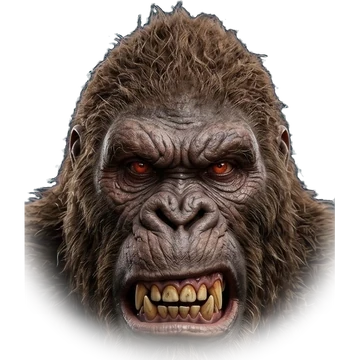
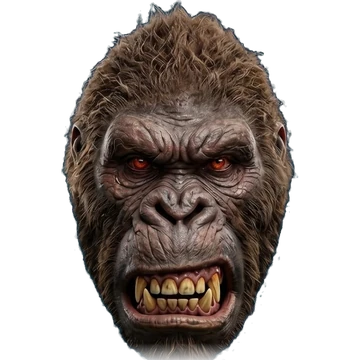
Cabezas de retrato sin hombros, masticar al comer y cuerpos en pixel art puro
- Retratos de George, Lizzie y Ralph recortados de la imagen de solo cabezas
- Al comer, la mandíbula sube y baja (retratos y fotos) mostrando el interior de la boca
- Cuerpos a menor resolución con píxeles grandes, bordes nítidos y paleta cerrada
- Cabezas un poco más grandes

Claude-Session: https://claude.ai/code/session_01WrKHBqVFUVzhRsw5zrp1Y6

diff --git a/js/art.js b/js/art.js
@@ -2,11 +2,11 @@
 // Dibujo de los monstruos (con la cara de la foto), humanos y procesado de caras.
 
 const MONSTERS = [
-  { id: 'kongo', name: 'KONGO', species: 'Gorila', type: 'ape', portrait: 'img/george.webp',
+  { id: 'kongo', name: 'KONGO', species: 'Gorila', type: 'ape', portrait: 'img/george.webp', mouth: 0.77,
     body: '#6e4a30', belly: '#8a6a58', dark: '#3e2818' },
-  { id: 'liza', name: 'LIZA', species: 'Lagarta', type: 'lizard', portrait: 'img/lizzie.webp',
+  { id: 'liza', name: 'LIZA', species: 'Lagarta', type: 'lizard', portrait: 'img/lizzie.webp', mouth: 0.62,
     body: '#3f7c36', belly: '#a8b850', dark: '#1f4a1c' },
-  { id: 'lobo', name: 'LOBO', species: 'Hombre lobo', type: 'wolf', portrait: 'img/ralph.webp',
+  { id: 'lobo', name: 'LOBO', species: 'Hombre lobo', type: 'wolf', portrait: 'img/ralph.webp', mouth: 0.63,
     body: '#7a7c82', belly: '#c4c4c8', dark: '#45474d' },
 ];
 const PLAYER_COLORS = ['#ffcc00', '#29d4ff'];
@@ -234,6 +234,21 @@ function circle(c, x, y, r, color) {
 }
 
 // Cabeza: la foto del jugador enmarcada con pelo/escamas/orejas según el monstruo.
+// Masticar: se parte la imagen a la altura de la boca y la mandíbula de abajo
+// sube y baja, dejando ver el interior de la boca.
+function drawChewing(c, img, x, y, w, h, frac, open) {
+  const split = y + h * frac;
+  c.fillStyle = '#3a0505';
+  c.beginPath(); c.ellipse(x + w / 2, split + open / 2, w * 0.2, open / 2 + 1, 0, 0, Math.PI * 2); c.fill();
+  c.fillStyle = '#9a1a1a';
+  c.beginPath(); c.ellipse(x + w / 2, split + open * 0.75, w * 0.11, open / 4 + 0.5, 0, 0, Math.PI * 2); c.fill();
+  c.save(); c.beginPath(); c.rect(x - 2, y - 2, w + 4, h * frac + 2); c.clip();
+  c.drawImage(img, x, y, w, h); c.restore();
+  c.save(); c.beginPath(); c.rect(x - 2, split + open, w + 4, h); c.clip();
+  c.drawImage(img, x, y + open, w, h); c.restore();
+}
+const chewOpen = (eat, time, size) => (eat > 0 ? (Math.sin(time * 24) * 0.5 + 0.5) * size * 0.09 : 0);
+
 function drawHead(c, cx, cy, r, m, face, opts = {}) {
   const { hurt = false, eat = 0, time = 0, tilt = 0 } = opts;
   if (face._monster) { // sin foto: cabeza de monstruo animada
@@ -246,13 +261,11 @@ function drawHead(c, cx, cy, r, m, face, opts = {}) {
   c.save();
   c.translate(cx, cy);
   c.rotate(tilt);
-  if (eat > 0) {
-    const k = Math.sin(time * 40) * 0.12;
-    c.scale(1 + k, 1 - k);
-  }
   if (face._portrait) { // retrato del monstruo (sin foto): ya trae orejas, cresta…
-    const ps = r * 3.3;
-    c.drawImage(face, -ps / 2, -ps * 0.52, ps, ps);
+    const ps = r * 3.35; // retrato de solo cabeza
+    const op = chewOpen(eat, time, ps);
+    if (op > 0.5) drawChewing(c, face, -ps / 2, -ps * 0.6, ps, ps, m.mouth || 0.7, op);
+    else c.drawImage(face, -ps / 2, -ps * 0.6, ps, ps);
     if (hurt) {
       c.globalAlpha = 0.4;
       c.fillStyle = '#ff2020'; c.beginPath(); c.ellipse(0, -ps * 0.04, ps * 0.4, ps * 0.44, 0, 0, Math.PI * 2); c.fill();
@@ -316,7 +329,9 @@ function drawHead(c, cx, cy, r, m, face, opts = {}) {
     c.closePath(); c.fill();
   }
   // la cara del jugador
-  if (face._cut) c.drawImage(face, -fs / 2, -fs / 2, fs, fs);
+  const op = chewOpen(eat, time, fs);
+  if (face._cut && op > 0.5) drawChewing(c, face, -fs / 2, -fs / 2, fs, fs, 0.72, op);
+  else if (face._cut) c.drawImage(face, -fs / 2, -fs / 2, fs, fs);
   else { // cara redonda (navegadores sin recorte): sin fondo de cuadrado
     c.save(); c.beginPath(); c.ellipse(0, 0, hx, hy * 0.95, 0, 0, Math.PI * 2); c.clip();
     c.drawImage(face, -hy, -hy, hy * 2, hy * 2); c.restore();
@@ -337,11 +352,30 @@ function drawHead(c, cx, cy, r, m, face, opts = {}) {
 // ---------------------------------------------------------------------------
 const PX = 2.2;              // tamaño en pantalla de cada píxel del sprite
 const BODY_SCALE = PX / 2;   // (compatibilidad con el alcance de los golpes)
-const HEAD_R = 21;
+const HEAD_R = 24;
 const SPR_W = 96, SPR_H = 80, FOOT_X = 40, FOOT_Y = 76;
-const sprBody = document.createElement('canvas'); sprBody.width = SPR_W; sprBody.height = SPR_H;
-const sprOut = document.createElement('canvas'); sprOut.width = SPR_W; sprOut.height = SPR_H;
-const sprTmp = document.createElement('canvas'); sprTmp.width = SPR_W; sprTmp.height = SPR_H;
+// Pixel art de verdad: el sprite se dibuja a menor resolución (PQ) y cada píxel
+// ocupa PX / PQ píxeles de pantalla (~3,4 px), con bordes nítidos y paleta cerrada.
+const PQ = 0.65;
+const QW = Math.ceil(SPR_W * PQ), QH = Math.ceil(SPR_H * PQ);
+const sprBody = document.createElement('canvas'); sprBody.width = QW; sprBody.height = QH;
+const sprOut = document.createElement('canvas'); sprOut.width = QW; sprOut.height = QH;
+const sprTmp = document.createElement('canvas'); sprTmp.width = QW; sprTmp.height = QH;
+const hexRGB = h => [parseInt(h.slice(1, 3), 16), parseInt(h.slice(3, 5), 16), parseInt(h.slice(5, 7), 16)];
+// Quita el suavizado: alfa todo o nada y cada píxel al color más cercano de la paleta
+function pixelize(g, palette) {
+  const img = g.getImageData(0, 0, QW, QH), d = img.data;
+  for (let i = 0; i < d.length; i += 4) {
+    if (d[i + 3] < 120) { d[i + 3] = 0; continue; }
+    let best = palette[0], bd = 1e9;
+    for (const p of palette) {
+      const dr = d[i] - p[0], dg = d[i + 1] - p[1], db = d[i + 2] - p[2], dd = dr * dr + dg * dg + db * db;
+      if (dd < bd) { bd = dd; best = p; }
+    }
+    d[i] = best[0]; d[i + 1] = best[1]; d[i + 2] = best[2]; d[i + 3] = 255;
+  }
+  g.putImageData(img, 0, 0);
+}
 
 function ell(g, x, y, rx, ry, col, rot = 0) { g.fillStyle = col; g.beginPath(); g.ellipse(x, y, rx, ry, rot, 0, Math.PI * 2); g.fill(); }
 function seg(g, pts, w, col) { // extremidad gruesa por varios puntos
@@ -463,20 +497,24 @@ function drawMonster(c, s, time) {
   const col = { body: m.body, belly: m.belly, dark: m.dark };
   const punching = s.punchT > 0;
   // 1) cuerpo en el sprite
-  const g = sprBody.getContext('2d');
-  g.setTransform(1, 0, 0, 1, 0, 0); g.clearRect(0, 0, SPR_W, SPR_H);
+  const g = sprBody.getContext('2d', { willReadFrequently: true });
+  g.setTransform(1, 0, 0, 1, 0, 0); g.clearRect(0, 0, QW, QH);
+  g.setTransform(PQ, 0, 0, PQ, 0, 0);
   const neck = drawBodySprite(g, s, m, col);
+  g.setTransform(1, 0, 0, 1, 0, 0);
+  if (!m._pal) m._pal = [m.body, m.belly, m.dark, '#e07a20', '#f0ece0', '#120a06', shade(m.belly, 0.75)].map(hexRGB);
+  pixelize(g, m._pal);
   // 2) contorno oscuro de 1 píxel alrededor
   const o = sprOut.getContext('2d');
-  o.clearRect(0, 0, SPR_W, SPR_H);
+  o.clearRect(0, 0, QW, QH);
   const t = sprTmp.getContext('2d');
-  t.globalCompositeOperation = 'source-over'; t.clearRect(0, 0, SPR_W, SPR_H);
+  t.globalCompositeOperation = 'source-over'; t.clearRect(0, 0, QW, QH);
   t.drawImage(sprBody, 0, 0);
-  t.globalCompositeOperation = 'source-in'; t.fillStyle = '#120a06'; t.fillRect(0, 0, SPR_W, SPR_H);
+  t.globalCompositeOperation = 'source-in'; t.fillStyle = '#120a06'; t.fillRect(0, 0, QW, QH);
   t.globalCompositeOperation = 'source-over';
   for (const [dx, dy] of [[-1, 0], [1, 0], [0, -1], [0, 1]]) o.drawImage(sprTmp, dx, dy);
   o.drawImage(sprBody, 0, 0);
-  if (hurt) { o.globalCompositeOperation = 'source-atop'; o.fillStyle = 'rgba(255,255,255,.85)'; o.fillRect(0, 0, SPR_W, SPR_H); o.globalCompositeOperation = 'source-over'; }
+  if (hurt) { o.globalCompositeOperation = 'source-atop'; o.fillStyle = 'rgba(255,255,255,.85)'; o.fillRect(0, 0, QW, QH); o.globalCompositeOperation = 'source-over'; }
   // 3) a pantalla, ampliado sin suavizado
   c.save();
   if (s.state !== 'climb') { c.fillStyle = 'rgba(0,0,0,.25)'; c.beginPath(); c.ellipse(s.x, s.y, 26, 5, 0, 0, Math.PI * 2); c.fill(); }
@@ -484,7 +522,7 @@ function drawMonster(c, s, time) {
   c.scale(s.f, 1);
   const smooth = c.imageSmoothingEnabled;
   c.imageSmoothingEnabled = false;
-  c.drawImage(sprOut, -FOOT_X * PX, -FOOT_Y * PX, SPR_W * PX, SPR_H * PX);
+  c.drawImage(sprOut, -FOOT_X * PX, -FOOT_Y * PX, QW * PX / PQ, QH * PX / PQ);
   c.imageSmoothingEnabled = smooth;
   c.restore();
   // 4) la cabeza (foto o retrato) sobre los hombros

diff --git a/js/game.js b/js/game.js
@@ -198,7 +198,7 @@ function updateGrab(p, dt) {
   g.t += dt;
   if (!g.done && g.t >= GRAB_TIME * 0.8) {
     g.done = true;
-    heal(p, g.hp); p.eatT = 0.45; Sound.play('eat'); buzz(20);
+    heal(p, g.hp); p.eatT = 0.9; Sound.play('eat'); buzz(20);
     addScore(p, g.points, p.x, p.y - 150, (g.kind === 'soldier' ? '¡CRUNCH! +' : '¡ÑAM! +') + g.points);
   }
   if (g.t >= GRAB_TIME) p.grab = null;
@@ -228,7 +228,7 @@ function handleContent(cell, p, pos) {
     case 'person':
       startGrab(p, 'person', pos.x, pos.y, 8, 100); break;
     case 'food':
-      heal(p, 15); addScore(p, 50, pos.x, pos.y, '¡RICO! +15♥'); Sound.play('eat'); p.eatT = 0.45; break;
+      heal(p, 15); addScore(p, 50, pos.x, pos.y, '¡RICO! +15♥'); Sound.play('eat'); p.eatT = 0.9; break;
     case 'money':
       addScore(p, 500, pos.x, pos.y, '$ 500'); Sound.play('money'); break;
     case 'sniper':
